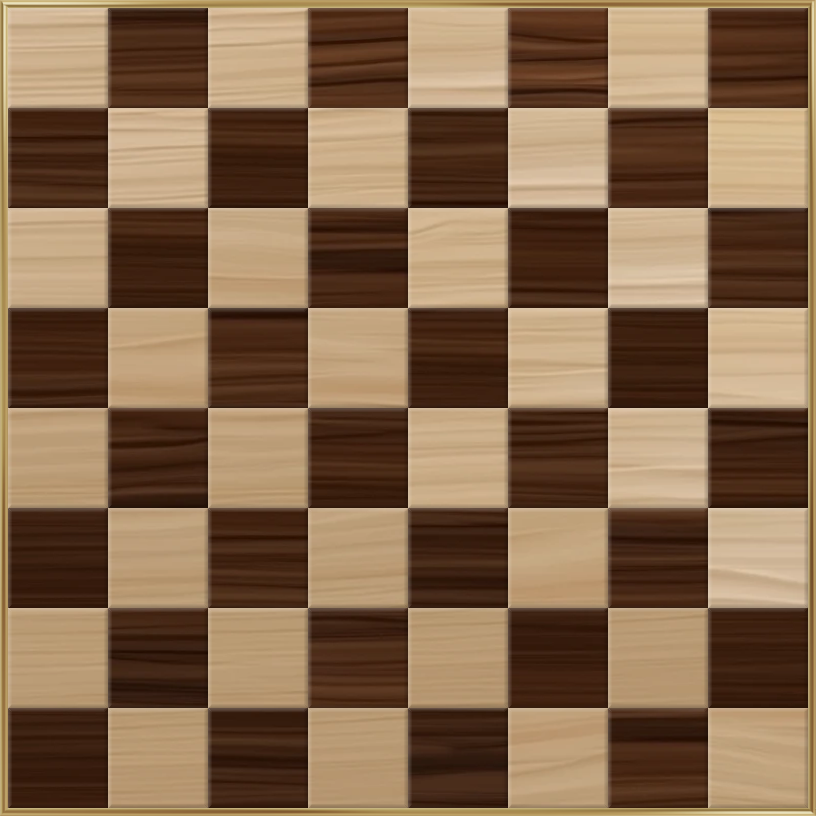
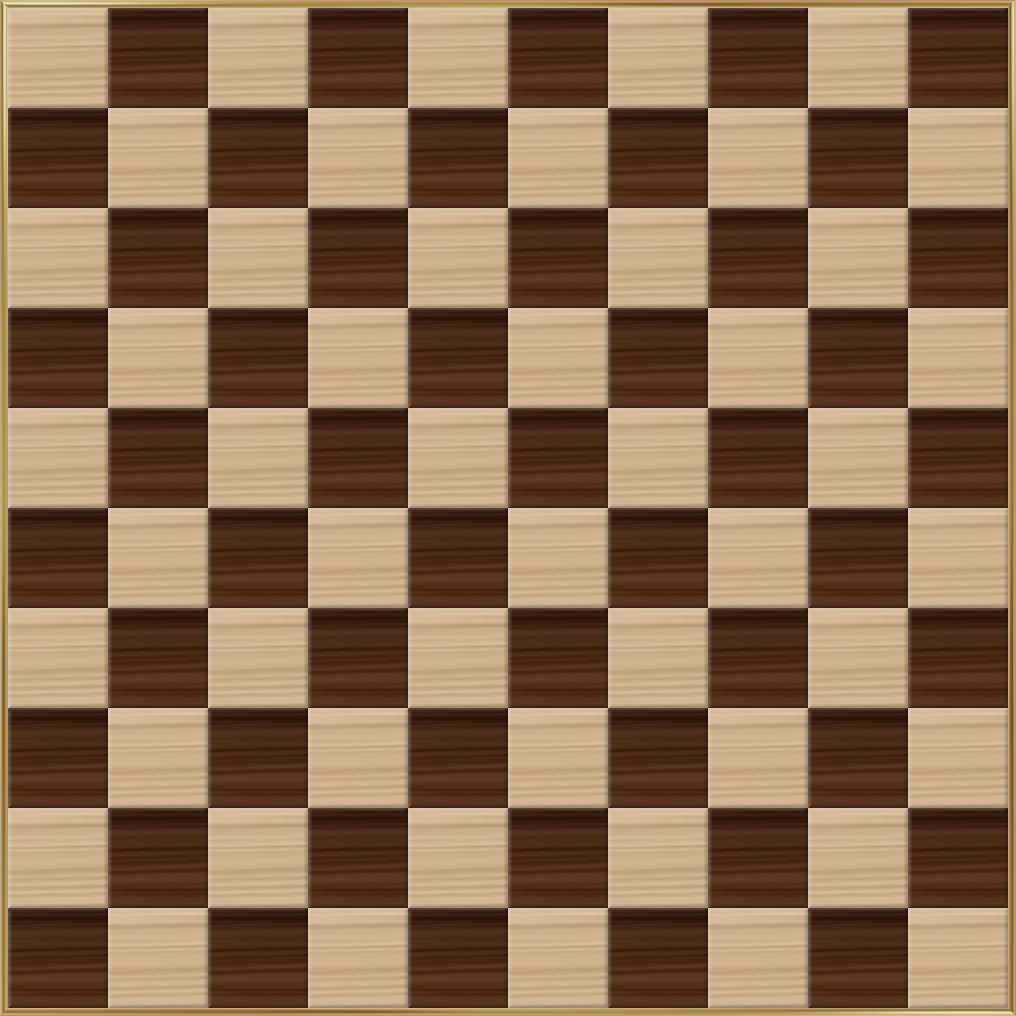
Fix chessboard 8x8 rendering and add fog overlay

diff --git a/frontend/pages/javascript/game.js b/frontend/pages/javascript/game.js
@@ -265,10 +265,12 @@ const CARDS_PATH = "../assets/game/game_cards/";
 const BOARD_PNG = `${BOARD_PATH}chessboard.png`;
 const OVERLAYS = {
     move: new Image(),
-    capture: new Image()
+    capture: new Image(),
+    fog: new Image()
 };
 OVERLAYS.move.src = `${BOARD_PATH}av_move.png`;
 OVERLAYS.capture.src = `${BOARD_PATH}av_attk.png`;
+OVERLAYS.fog.src = `${BOARD_PATH}fog_overlay.png`;
 
 // Trigger re-render when overlays load
 OVERLAYS.move.onload = () => {
@@ -382,20 +384,30 @@ function indexToAlgebraic(row, col){
 function computeLayout(){
     const w = canvas.width / dpr;
     const h = canvas.height / dpr;
-  // board must fill canvas; but we maintain 1% border inside
-    const borderX = w * 0.01;
-    const borderY = h * 0.01;
+    
+    const BOARD_IMAGE_SIZE = 1016;
+    const BOARD_BORDER_PX = 8;
+    
+    const scale = Math.min(w, h) / BOARD_IMAGE_SIZE;
+    
+    // Scale the border proportionally
+    const borderX = BOARD_BORDER_PX * scale;
+    const borderY = BOARD_BORDER_PX * scale;
+    
     const innerLeft = borderX;
     const innerTop = borderY;
-    const innerW = w - borderX*2;
-    const innerH = h - borderY*2;
+    const innerW = w - borderX * 2;
+    const innerH = h - borderY * 2;
     const cellSize = Math.min(innerW / columns, innerH / rows);
     const totalGridW = cellSize * columns;
     const totalGridH = cellSize * rows;
-  // center the grid inside inner area
-    const gridLeft = innerLeft + (innerW - totalGridW)/2;
-    const gridTop = innerTop + (innerH - totalGridH)/2;
-    return { w,h, borderX, borderY, innerLeft, innerTop, innerW, innerH, cellSize, totalGridW, totalGridH, gridLeft, gridTop };
+    
+    // Center the grid
+    const gridLeft = innerLeft + (innerW - totalGridW) / 2;
+    const gridTop = innerTop + (innerH - totalGridH) / 2;
+    
+    return { w, h, borderX, borderY, innerLeft, innerTop, innerW, innerH, 
+             cellSize, totalGridW, totalGridH, gridLeft, gridTop };
 }
 
 // convenience to get piece at grid
@@ -481,10 +493,40 @@ function render(){
         ctx.fillStyle = '#8a6b49';
         ctx.fillRect(0,0,L.w,L.h);
     }
-
-  // draw DMZ outer ring if dmz true
-  if(gameState.dmz){
-  }
+    // Draw fog overlay on DMZ tiles (when DMZ is not active)
+    if (!gameState.dmz && OVERLAYS.fog.complete) {
+        ctx.save();
+        
+        // Top row (rank 10)
+        for (let col = 0; col < columns; col++) {
+            const x = L.gridLeft + col * L.cellSize;
+            const y = L.gridTop;
+            ctx.drawImage(OVERLAYS.fog, x, y, L.cellSize, L.cellSize);
+        }
+        
+        // Bottom row (rank 1)
+        for (let col = 0; col < columns; col++) {
+            const x = L.gridLeft + col * L.cellSize;
+            const y = L.gridTop + 9 * L.cellSize;
+            ctx.drawImage(OVERLAYS.fog, x, y, L.cellSize, L.cellSize);
+        }
+        
+        // Left column (file a) - skip corners already drawn
+        for (let row = 1; row < 9; row++) {
+            const x = L.gridLeft;
+            const y = L.gridTop + row * L.cellSize;
+            ctx.drawImage(OVERLAYS.fog, x, y, L.cellSize, L.cellSize);
+        }
+        
+        // Right column (file j) - skip corners already drawn
+        for (let row = 1; row < 9; row++) {
+            const x = L.gridLeft + 9 * L.cellSize;
+            const y = L.gridTop + row * L.cellSize;
+            ctx.drawImage(OVERLAYS.fog, x, y, L.cellSize, L.cellSize);
+        }
+        
+        ctx.restore();
+    }
 
     // draw legal moves overlays
     console.log('Rendering overlays - legalMoves:', legalMoves.length, 'legalCaptures:', legalCaptures.length);
@@ -986,8 +1028,7 @@ function debounce(fn, t=100){
 // initial sizing & render
 window.addEventListener('load', () => {
     dpr = Math.max(1, window.devicePixelRatio || 1);
-  columns = gameState.dmz ? 9 : 8;
-  rows = columns;
+    // columns and rows are always 10 for the board
     resizeCanvas();
 });
 

diff --git a/backend/cards/card.py b/backend/cards/card.py
@@ -2252,7 +2252,6 @@ class ForcedMove(Card):
     # Card can always be played (no board / piece precondition)
     # ------------------------------------------------------------------
     def can_play(self, board: Board, player: Player) -> bool:
-        # If you have per-turn card limits or phase checks, you can add them here.
         return True
 
     # ------------------------------------------------------------------
